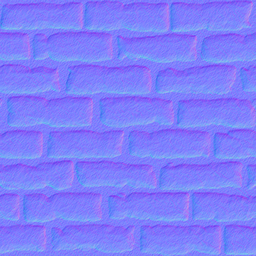
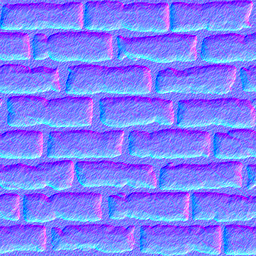
increase normal map contrast, implemented cross browser fullscreen

diff --git a/lesson04/uebung5/uebung5.js b/lesson04/uebung5/uebung5.js
@@ -43,7 +43,7 @@ window.onload = function() {
 var GLOWMAP_SIZE = 128;
 var WATERMAP_SIZE = 256;
 var BRIGHT_PASS = 0.7;
-var size = "large";
+var size = "small";
 
 
 var genViewTarget = function (x,y, eyePosition, eyeRadius){
@@ -57,6 +57,23 @@ var genViewTarget = function (x,y, eyePosition, eyeRadius){
     return vec3.create([(-(((x>1)?1:x)* (t[2]))) * (1+eyeRadius), (-((y>1)?1:y)) * (1+eyeRadius), (((x>1)?1:x)* (t[0])) * (1+eyeRadius)]);
 }
 
+/*
+ * http://stackoverflow.com/questions/1125084/how-to-make-in-javascript-full-screen-windows-stretching-all-over-the-screen
+ */
+function requestFullScreen(element) {
+    // Supports most browsers and their versions.
+    var requestMethod = element.requestFullScreen || element.webkitRequestFullScreen || element.mozRequestFullScreen || element.msRequestFullScreen;
+
+    if (requestMethod) { // Native full screen.
+        requestMethod.call(element);
+    } else if (typeof window.ActiveXObject !== "undefined") { // Older IE.
+        var wscript = new ActiveXObject("WScript.Shell");
+        if (wscript !== null) {
+            wscript.SendKeys("{F11}");
+        }
+    }
+}
+
 // The main entry point.
 function initialize() {
 
@@ -67,7 +84,8 @@ function initialize() {
     window.gl = tdl.webgl.setupWebGL(canvas);
 
    canvas.addEventListener("click", function() {
-    canvas.webkitRequestFullScreen(Element.ALLOW_KEYBOARD_INPUT);
+    //canvas.webkitRequestFullScreen(Element.ALLOW_KEYBOARD_INPUT);
+    requestFullScreen(canvas);
     //canvas.webkitRequestPointerLock();
    });
 
